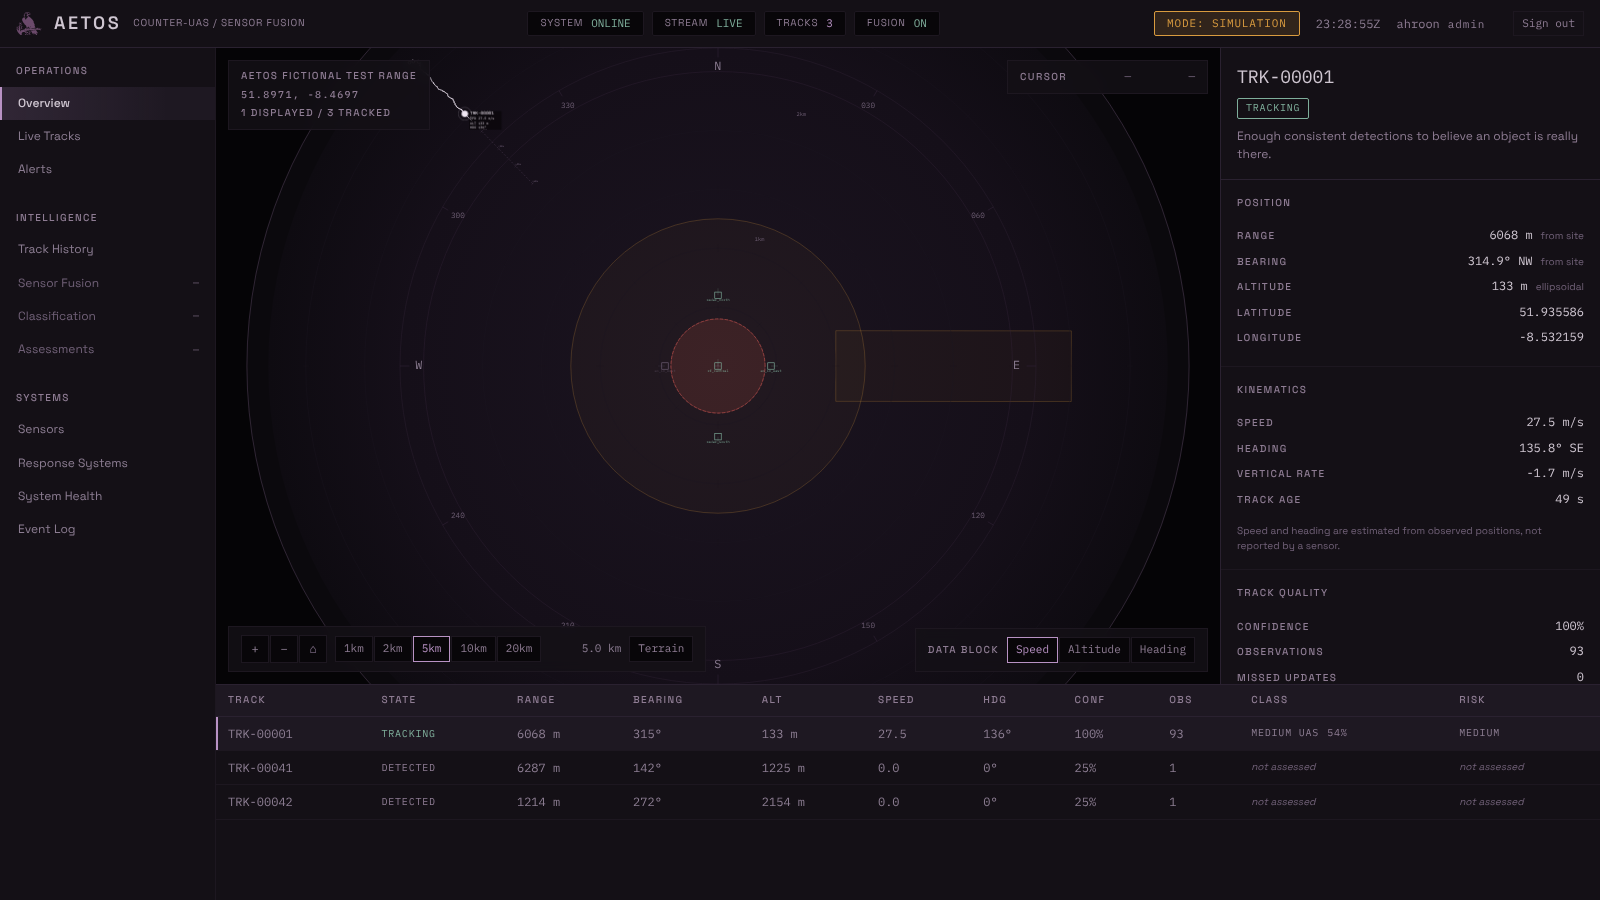
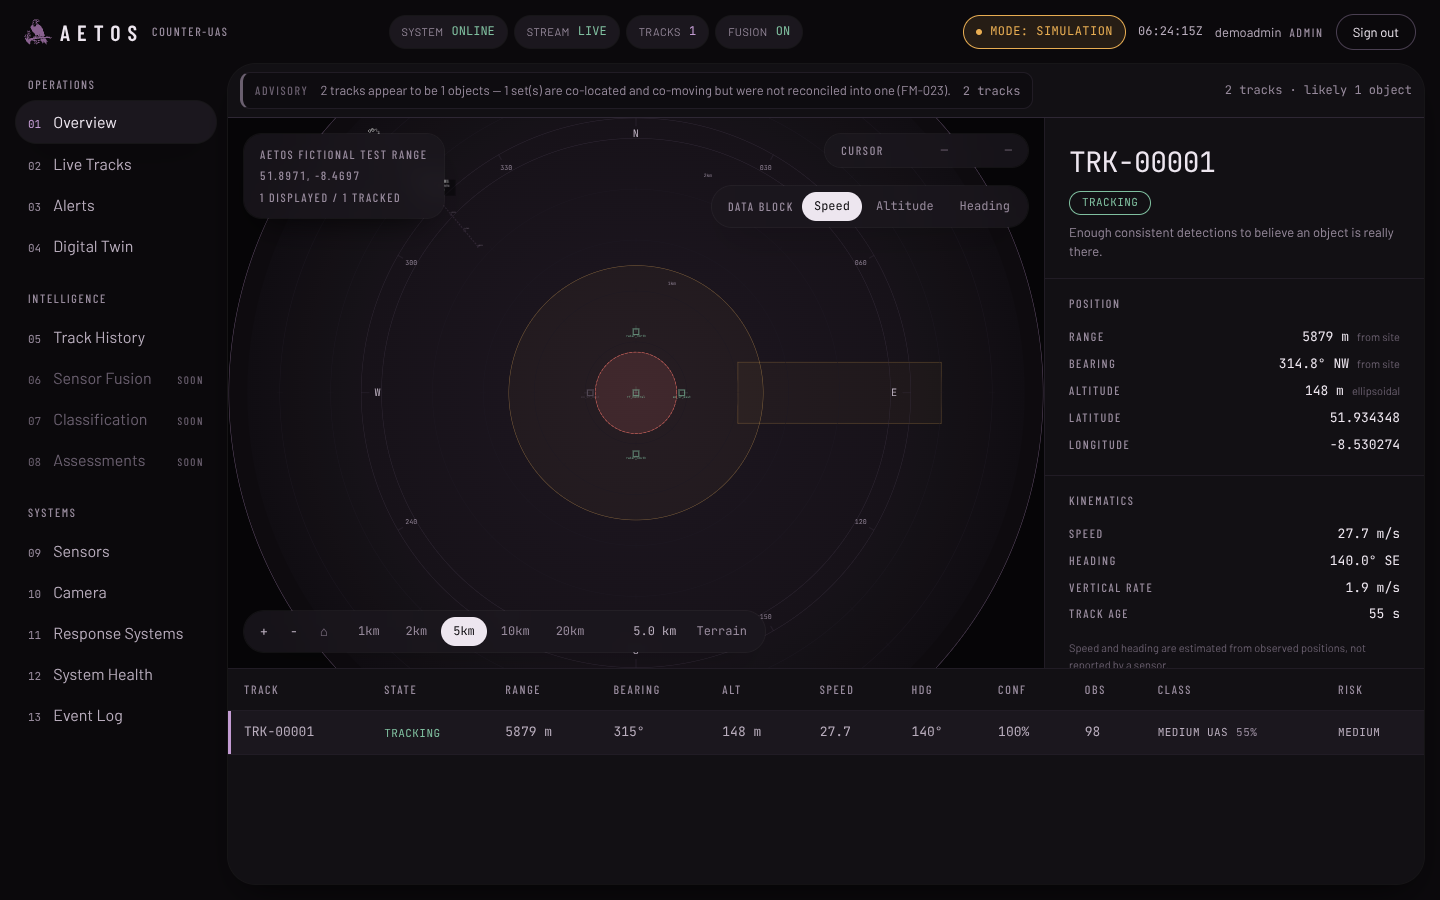
README: current screenshots, a tour of every page, the live twin
- New console screenshot (dark plum) and a screenshot of the digital twin
  following a live track toward the protected area.
- "What you get": the three screens and each numbered console page.
- The digital twin's live feed and its Live/Simulation switch.
- Twin tests in the test commands; the camera in "What's where".
- What to do when the hosted site does not update after a change lands on
  main (Manual Deploy, and the Auto-Deploy setting).

Claude-Session: https://claude.ai/code/session_01Y3njtHKe6v11fySF79k7YY

diff --git a/README.md b/README.md
@@ -19,6 +19,33 @@ So I built Aetos.
 <sub>One drone, seen by three sensors, fused into one track. The amber SIMULATION badge comes
 from the backend, based on which sensors are actually attached, not from the interface.</sub>
 
+## What you get
+
+Three screens: a front page, a sign-in card, and the console. The console's numbered menu has:
+
+| Page | What it's for |
+|---|---|
+| **01 Overview** | The radar picture: tracks with trails and predicted paths, zones, sensors, range rings, and the selected track's details |
+| **02 Live Tracks** | Every track in a table, with state, position, class and risk |
+| **03 Alerts** | Risk that has crossed the alert threshold, with its reasons, to acknowledge |
+| **04 Digital Twin** | The site in 3D with the live tracks over it (see below) |
+| **05 Track History** | The recorded path of any track, including ones already lost |
+| **09 Sensors** | Where each sensor is, what kind it is, and whether it's enabled |
+| **10 Camera** | Your phone or laptop camera as a sensor: motion found in the browser, bearings sent to Aetos |
+| **11 Response Systems** | Deliberately empty: Aetos recommends, it never acts |
+| **12 System Health** | Every subsystem's state and the sensor watchdog's verdict |
+| **13 Event Log** | The append-only log every view is rebuilt from |
+
+### The digital twin
+
+![The digital twin following a live track toward the protected area](docs/assets/twin.png)
+
+The twin draws the real site in 3D (its protected, restricted and monitored zones as volumes,
+its sensors with their coverage) and puts the console's own tracks over it, updated every
+second. Risk scores, reasons and recommendations are Aetos's own; the twin doesn't re-score
+anything. A Live/Simulation switch gives you the twin's built-in scenarios and its site editor
+when you want to plan rather than watch.
+
 ## What it does
 
 Aetos takes raw detections, turns them into tracks, classifies them, scores the risk, and gives
@@ -58,7 +85,8 @@ Out of the box, everything is synthetic. Live mode runs against a testbed radar,
 measured its detection performance yet, so for now it proves the pipeline, not the sensor. More
 in [docs/live_mode.md](docs/live_mode.md).
 
-Tests: `pytest -q` for the backend, `cd frontend && npm test` for the console.
+Tests: `pytest -q` for the backend, `cd frontend && npm test` for the console, and
+`cd twin && npm test` for the digital twin.
 
 ## Running it for real
 
@@ -83,8 +111,14 @@ the simulated approach on a loop. Sign in as `admin`, with the password Render g
 `AETOS_VIEWER_USERNAME` and `AETOS_VIEWER_PASSWORD` (12+ characters) there.
 
 It runs on Render's free plan, which sleeps after 15 minutes without visitors and takes about a
-minute to wake. Each wake starts a fresh event log. The same image runs on any host that
-terminates TLS in front of it; see [docs/deployment.md](docs/deployment.md#hosted-render-fly-railway). Please read
+minute to wake. Each wake starts a fresh event log.
+
+**If the site doesn't update after a change lands on `main`:** open the service in the Render
+dashboard and press **Manual Deploy**, then **Deploy latest commit**. To make it automatic,
+check **Settings → Build & Deploy → Auto-Deploy** is on and the branch is `main`.
+
+The same image runs on any host that terminates TLS in front of it; see
+[docs/deployment.md](docs/deployment.md#hosted-render-fly-railway). Please read
 [docs/failure_modes.md](docs/failure_modes.md) before you rely on it anywhere that matters.
 I write down every way I've found it can go wrong, including the ones I haven't fixed.
 
@@ -106,7 +140,7 @@ problem? See [SECURITY.md](SECURITY.md).
 | Path        | What's there                                                                  |
 | ----------- | ----------------------------------------------------------------------------- |
 | `backend/`  | Ingestion, tracking, fusion, classification, zones, risk, decision, event log |
-| `sensors/`  | The sensor adapter contract, the simulator and the testbed radar driver       |
+| `sensors/`  | The sensor adapter contract, the simulator, the testbed radar and the camera  |
 | `frontend/` | The operator console                                                          |
 | `twin/`     | The 3D digital twin, served by the backend at `/twin/`                        |
 | `docs/`     | Architecture, schema, failure modes and design decisions (`docs/adr/`)        |
@@ -114,7 +148,8 @@ problem? See [SECURITY.md](SECURITY.md).
 ## Where it's going
 
 It's just me working on this, and it's in active development. Next up: fusion across more
-sensors, a digital twin of the site, distributed nodes and coordination across sites. The longer
+sensors, real building models in the digital twin, distributed nodes and coordination across
+sites. The longer
 version is in [docs/vision.md](docs/vision.md), and where each module stands today is in
 [docs/architecture.md](docs/architecture.md). Changes are in [CHANGELOG.md](CHANGELOG.md).
 
